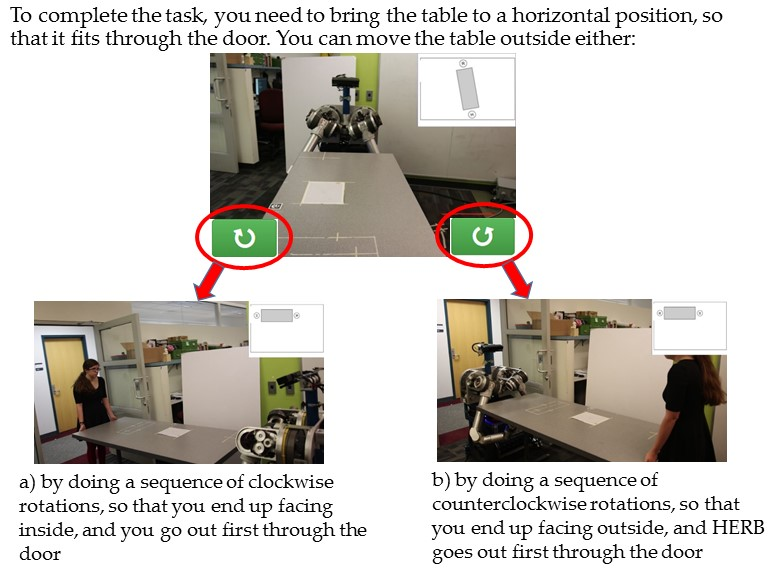
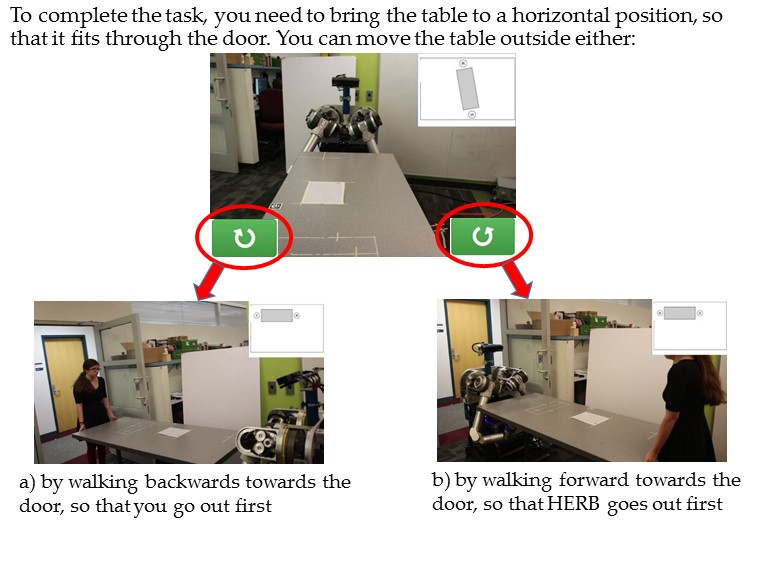
updated instructions to be clearer

Changed region(s): [[0.5625, 0.8125, 1.0, 0.9688], [0.0312, 0.8125, 0.4688, 0.9688]]

diff --git a/tableturn.html b/tableturn.html
@@ -38,12 +38,12 @@
     </div>
     <p class="text-danger hide">Please answer the question</p>
     <div class="radio" style="display:none;">
-      <label><input type="radio" name=1 value="humanFacingDoor">I would like to move the table outside so that I am facing outside and HERB goes out first  (rotate the table counter-clockwise by pressing the <strong>right</strong> button 
+      <label><input type="radio" name=1 value="humanFacingDoor">I would like to walk forward towards the door, so that HERB goes out of the room first  (rotate the table by pressing the <strong>RIGHT</strong> button 
 	  <img src="images/button_ccw.png" alt="counter-clockwise" width="44" height="26">)
 </label>
     </div> 
     <div class="radio" style="display:none;">
-      <label><input type="radio" name=1 value="humanFacingRoom">I would like to move the table outside so that I end up facing inside, and I go out first through the door (rotate table clockwise by pressing the <strong>left</strong> button <img  src="images/button_cw.png" alt="clockwise" width="44" height="26">)</label>
+      <label><input type="radio" name=1 value="humanFacingRoom">I would like to walk backward towards the door, so that I go out of the room first (rotate the table by pressing the <strong>LEFT</strong> button <img  src="images/button_cw.png" alt="clockwise" width="44" height="26">)</label>
     </div> 
 	
 	   <div class = "starttext" style = "display:none;">
